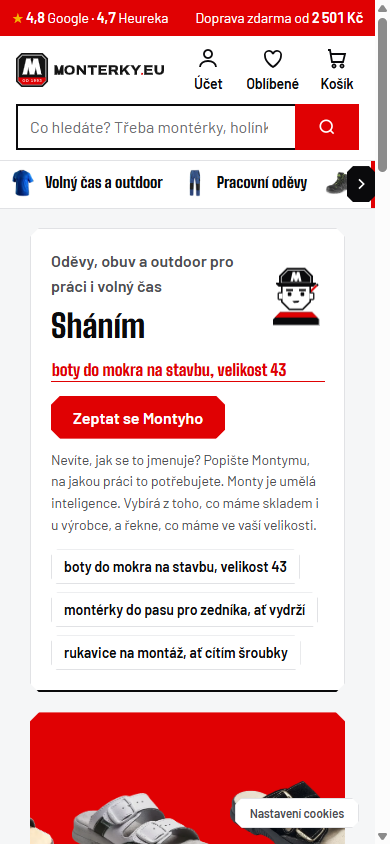
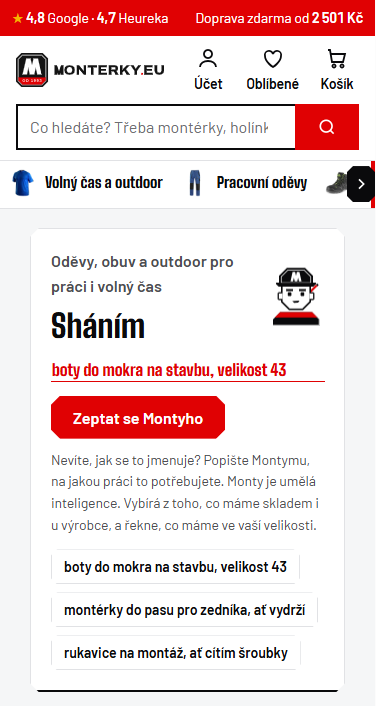
Screeny bez ořízlého pásu s pantoflemi

diff --git a/README.md b/README.md
@@ -14,8 +14,8 @@ z toho, co je skladem u nás nebo u výrobce.
 ![Úvodní stránka e-shopu s AI poradcem](img/eshop-uvod.png)
 
 <p>
-  <img src="img/eshop-kategorie.png" width="74%" alt="Kategorie pracovní obuvi se stavem skladu u každého produktu">
-  <img src="img/eshop-mobil.png" width="21%" alt="E-shop na mobilu">
+  <img src="img/eshop-kategorie.png" width="71%" alt="Kategorie pracovní obuvi se stavem skladu u každého produktu">
+  <img src="img/eshop-mobil.png" width="23%" alt="E-shop na mobilu">
 </p>
 
 ## Ukázky kódu
